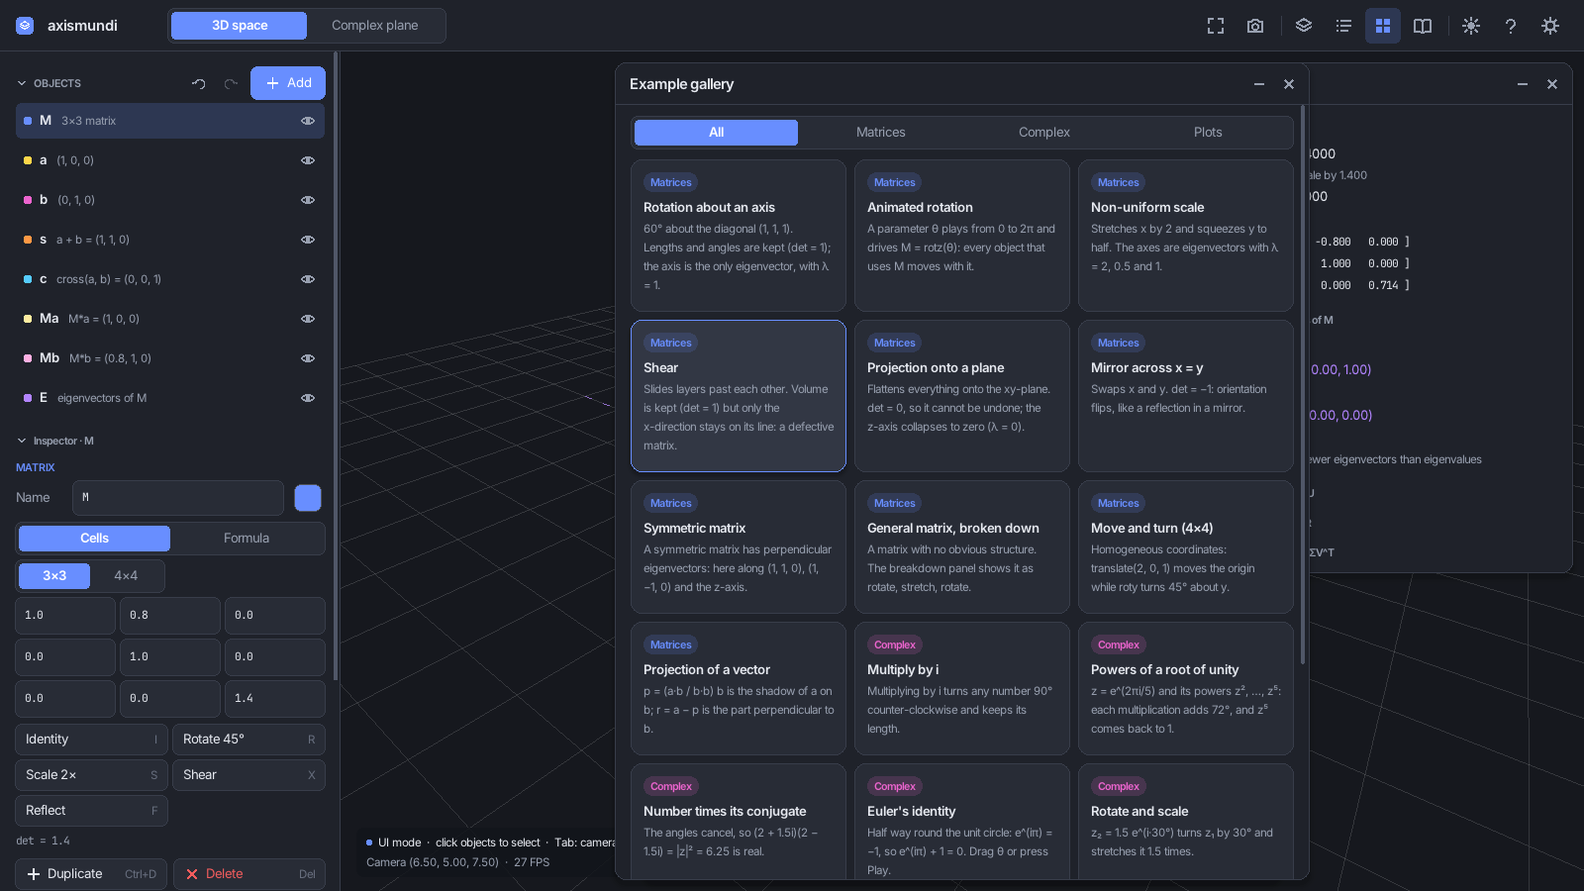
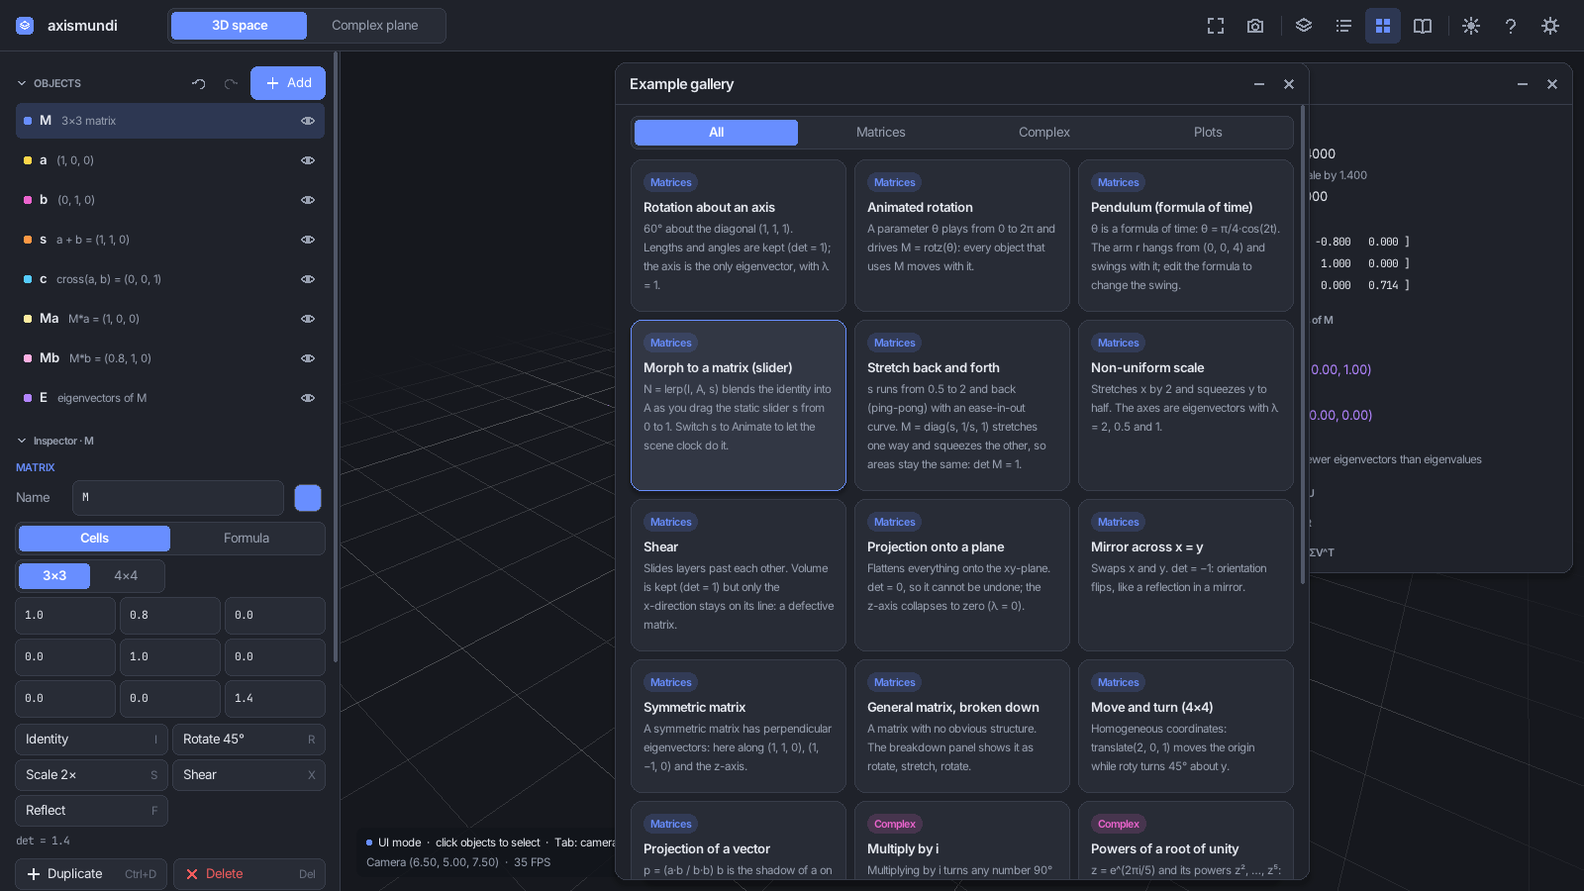
content and docs: Time panel, static morphs, lerp and keys
- Tutorial: the Parameters lesson becomes Parameters and time (static
  slider, Animate with the clock, formula of t, morph with a slider)
- Gallery: Morph to a matrix (slider); clock-driven examples start the
  scene clock
- README, UI_GUIDE, QUICKSTART: Time panel, parameter modes with the
  scene clock, lerp/keys/mod, morph templates; CLAUDE.md: timeline
  model, no Animator, lesson walk advice; TODO updated
- Refreshed screenshots

diff --git a/src/edu/Tutorial.cpp b/src/edu/Tutorial.cpp
@@ -14,6 +14,7 @@ bool near(float a, float b, float tol = 0.02f) { return std::fabs(a - b) <= tol;
 // The default picture in the 3D space, with M selected and the analysis open
 void fresh3D(App& app) {
     app.setMode(AppMode::Space3D);
+    app.restartTime(false);
     app.resetScene();
     app.select("M");
     if (auto* p = app.panel("analysis")) p->setVisible(true);
@@ -188,10 +189,10 @@ std::vector<Lesson> build() {
          "Put 5 in a diagonal cell of a diagonal matrix.", "matrix.grid"},
     }});
 
-    list.push_back({"Parameters", "Sliders that drive formulas", {
+    list.push_back({"Parameters and time", "Sliders, animations and the scene clock", {
         {"A slider in a formula",
          "theta is a parameter: a named number with a slider. Here M is defined by the formula rotz(theta), so "
-         "M, and everything that uses it, turns when theta changes.",
+         "M, and everything that uses it, turns when theta changes. A slider is static: it stays where you put it.",
          [](App& app) {
              fresh3D(app);
              app.addObject(AppMode::Space3D, "parameter", "theta", {}, {{"value", "0.5"}, {"min", "0"}, {"max", "6.2832"}});
@@ -202,26 +203,28 @@ std::vector<Lesson> build() {
              }
              app.select("theta");
          },
-         "Press Play on theta and watch the scene turn.",
+         "Drag theta's slider and watch the scene turn.",
          [](App& app, const TutorialContext&) {
              auto* p = dynamic_cast<scene::ParameterObject*>(app.object("theta"));
              return p && std::fabs(p->number() - 0.5) > 0.2;
          },
-         "The play button is in theta's inspector. Dragging the slider works too.", "parameter.play"},
-        {"Repeat and easing",
-         "Playing switched theta to Animate: it runs from min to max. Ping-pong runs back and forth, and the easing "
-         "curve shapes the motion (Ease in-out starts and stops gently, Bounce bounces at the end).",
-         nullptr, "Choose Ping-pong and a different easing for theta.",
+         "The slider is in theta's inspector, under the mode switch.", "parameter.slider"},
+        {"Animate with the clock",
+         "Set to Animate, a parameter follows the scene clock from min to max. Ping-pong runs back and forth, and the "
+         "easing curve shapes the motion (Ease in-out starts and stops gently, Bounce bounces at the end). The Time "
+         "panel plays, pauses and scrubs the clock for everything at once.",
+         nullptr, "Switch theta to Animate, choose Ping-pong and an easing, then press Play in the Time panel (or P).",
          [](App& app, const TutorialContext&) {
              auto* p = dynamic_cast<scene::ParameterObject*>(app.object("theta"));
-             if (!p) return false;
+             if (!p || p->mode() != scene::ParameterObject::Mode::Animate) return false;
              Playback pb = p->playback();
-             return pb.repeat == Repeat::PingPong && pb.easing != Easing::Linear;
+             return pb.repeat == Repeat::PingPong && pb.easing != Easing::Linear && app.scene().timeline().playing;
          },
-         "Both are in theta's inspector, under the range, when the mode is Animate.", "parameter.easing"},
+         "The mode switch is at the top of theta's inspector; the repeat style and easing appear under the range.",
+         "parameter.mode"},
         {"A formula of time",
-         "A parameter can also be a formula of t, its own clock in seconds. pi/4*sin(2t) swings back and forth "
-         "between ±45°; t/2 grows forever.",
+         "A parameter can also be a formula of t, the scene time in seconds. pi/4*sin(2t) swings back and forth "
+         "between ±45°; t/2 grows as long as the clock runs. Drag the Time panel's scrubber to see any moment.",
          nullptr, "Switch theta to Formula and type a formula that uses t, e.g. pi/4*sin(2t).",
          [](App& app, const TutorialContext&) {
              auto* p = dynamic_cast<scene::ParameterObject*>(app.object("theta"));
@@ -229,7 +232,27 @@ std::vector<Lesson> build() {
              const scene::Field* f = p->field("formula");
              return f && f->program.valid();
          },
-         "The mode switch is at the top of theta's inspector. Press Play if the clock is paused.", "parameter.mode"},
+         "The mode switch is at the top of theta's inspector.", "parameter.mode"},
+        {"Morph with a slider",
+         "lerp(A, B, s) blends from A (s = 0) to B (s = 1). Here N = lerp(eye(3), S, s): the identity morphs into the "
+         "shear S as the static slider s moves. The Add menu builds this for any selected matrix, vector or "
+         "complex number.",
+         [](App& app) {
+             fresh3D(app);
+             app.clearSpace(AppMode::Space3D);
+             app.addObject(AppMode::Space3D, "matrix", "S", {{"value", "[[1, 1.5, 0], [0, 1, 0], [0, 0, 1]]"}},
+                           {{"mode", "formula"}});
+             app.addObject(AppMode::Space3D, "parameter", "s", {}, {{"value", "0"}, {"min", "0"}, {"max", "1"}});
+             app.addObject(AppMode::Space3D, "matrix", "N", {{"value", "lerp(eye(3), S, s)"}}, {{"mode", "formula"}});
+             if (auto* sm = app.object("S")) sm->visible = false;
+             app.select("s");
+         },
+         "Drag s to 1 and watch the basis shear.",
+         [](App& app, const TutorialContext&) {
+             auto* p = dynamic_cast<scene::ParameterObject*>(app.object("s"));
+             return p && p->number() > 0.9;
+         },
+         "The slider is in s's inspector.", "parameter.slider"},
     }});
 
     list.push_back({"Breaking a matrix down", "Rotate, stretch, rotate", {

diff --git a/src/edu/Examples.cpp b/src/edu/Examples.cpp
@@ -91,6 +91,20 @@ std::vector<Example> build() {
                         app.select("theta");
                         app.restartTime(true);
                     }});
+    list.push_back({"Morph to a matrix (slider)", C::Matrices,
+                    "N = lerp(I, A, s) blends the identity into A as you drag the static slider s from 0 to 1. "
+                    "Switch s to Animate to let the scene clock do it.",
+                    [](App& app) {
+                        fresh(app, AppMode::Space3D);
+                        app.addObject(AppMode::Space3D, "matrix", "A",
+                                      {{"value", "[[1.5, 0.8, 0], [-0.4, 1, 0], [0, 0.5, 1.2]]"}}, {{"mode", "formula"}});
+                        app.addObject(AppMode::Space3D, "parameter", "s", {},
+                                      {{"value", "0.35"}, {"min", "0"}, {"max", "1"}});
+                        app.addObject(AppMode::Space3D, "matrix", "N", {{"value", "lerp(eye(3), A, s)"}},
+                                      {{"mode", "formula"}});
+                        if (auto* a = app.object("A")) a->visible = false;
+                        app.select("s");
+                    }});
     list.push_back({"Stretch back and forth", C::Matrices,
                     "s runs from 0.5 to 2 and back (ping-pong) with an ease-in-out curve. M = diag(s, 1/s, 1) "
                     "stretches one way and squeezes the other, so areas stay the same: det M = 1.",

diff --git a/UI_GUIDE.md b/UI_GUIDE.md
@@ -11,7 +11,7 @@
 │ ▾ Inspector  │                                         │  ...         │          │
 │ ▾ VIEW       │    floating panels: Tutorial, Gallery,  └──────────────┘          │
 │              │    Calculation steps, Breakdown, ...                              │
-│  side bar    │  ● UI mode · status        ┌── Animation ──────────────┐          │
+│  side bar    │  ● UI mode · status        ┌── Time ───────────────────┐          │
 │  (scrolls)   │                            └───────────────────────────┘          │
 └──────────────┴───────────────────────────────────────────────────────────────────┘
 ```
@@ -70,7 +70,7 @@ Each space has its own list of objects. The side bar shows:
 | Matrix | 3D | Cells (3×3 / 4×4, presets) or Formula; determinant |
 | Eigenvectors | 3D | Matrix formula (e.g. `M`); dashed lines with dots at λv |
 | Function / Curve / Surface / Implicit | 3D | Expressions in x, y, t; ranges; Detail per unit; Heat map; Next example |
-| Parameter | both | Slider / Animate / Formula; range; repeat style, easing, duration; play, restart |
+| Parameter | both | Slider / Animate / Formula; range; repeat style, easing, duration, start delay |
 | Complex number | complex | Value; circle, cos/sin projections, helix options; length and angle |
 | Product | complex | Two factors; rotation and scaling construction; length and angle breakdown |
 
@@ -82,7 +82,8 @@ Every field is a formula. It can use other objects in the same space by name. Av
 - `sin cos tan asin acos atan sinh cosh tanh exp log ln sqrt abs floor ceil atan2 min max`;
 - vectors: `dot cross norm normalize`;
 - matrices: `det tr inv transpose rotx roty rotz rot(axis, angle) scale translate eye`;
-- complex numbers: `conj re im arg polar`.
+- complex numbers: `conj re im arg polar`;
+- blending: `lerp(a, b, s)`, `keys(s, A, B, …)`; and `mod(a, b)`.
 
 `M*v` applies a matrix to a vector (a 4×4 matrix treats v as a point); `M*N` composes; `M^-1` inverts.
 Plots use `x`, `y` and `t` as their variables. Names must start with a letter and cannot be built-in names.
@@ -92,17 +93,36 @@ red summary in the list for errors such as unknown names, wrong types or circula
 ### Parameters
 A parameter is a named number that can be used in any formula. The switch at the top of its inspector picks
 how it is driven:
-- **Slider**: set it by hand within its range.
-- **Animate**: Play runs it from min to max.
+- **Slider**: set it by hand within its range. It is static: time does not move it. Use it to morph things by
+  hand, e.g. `lerp(eye(3), M, s)` blends the identity into M as `s` goes from 0 to 1.
+- **Animate**: follows the scene clock from min to max.
   - **Once** stops at the end, **Loop** starts again, **Ping-pong** runs back and forth.
   - The **easing** button opens a grid of curves: Linear, Ease in, Ease out, Ease in-out, Sine, Back
     (overshoots), Elastic, Bounce and Steps. Hover one to read what it does.
-  - The slider next to it sets the duration of one run.
-- **Formula**: the value is a formula of `t`, the parameter's own clock in seconds, and may use other objects.
-  Examples: `2pi*t/5` (one turn every 5 s), `pi/4*sin(2t)`, `1 + k*cos(t)`. Play / pause runs the clock,
-  restart sets t back to 0, and "Wrap t after" can restart it periodically.
+  - The slider next to it sets the duration of one run; **Start at** delays it, so parameters can move one
+    after another.
+- **Formula**: the value is a formula of `t`, the scene time in seconds, and may use other objects.
+  Examples: `2pi*t/5` (one turn every 5 s), `pi/4*sin(2t)`, `1 + k*cos(t)`, `mod(t, 3)` (restarts every 3 s).
 
-Pressing Play on a slider switches it to Animate. Several parameters can play at once.
+Animate and Formula parameters show the current `t` and a link to the Time panel.
+
+### Time panel
+One clock for the whole scene, shared by both spaces:
+- **Play / pause** (P), **Restart** (back to t = 0), and a **scrubber**: dragging it shows any moment, because
+  time-driven parameters are computed from the time rather than stepped frame by frame.
+- **Speed** (0.1× to 4×) and **Loop** (start again at the end, or stop there).
+- **Length**: Auto uses the longest Once or Ping-pong animation (start delay included), or 10 s; click Auto
+  to set a length by hand.
+- The list of time-driven parameters in the current space, with their mode and current value; click one to
+  select it.
+
+The clock is saved with the scene. Undo never moves it.
+
+### Morphing
+`lerp(A, B, s)` blends any two values of the same kind (numbers, complex numbers, vectors, matrices); a plain
+`0` stands for zero, so `lerp(0, v, s)` grows v from nothing. `keys(s, A, B, C, …)` runs through several values
+as s goes from 0 to 1. The Add menu builds these for the selection: **Morph from identity** (a matrix),
+**Grow from zero** (a vector or complex number) and **Blend** (two objects), each with a new slider `s`.
 
 ### Plot detail
 **Detail** is set per unit of the range: samples per unit of x (functions) or t (curves), and grid cells per
@@ -121,8 +141,8 @@ surface cells, 800 × 800 implicit cells), and the line says so when the cap app
 
 z points up and the floor grid is the xy-plane, the usual math convention, so vectors and surfaces
 `z = f(x, y)` agree. The axes are x (red), y (green), z (blue). Matrices are drawn as their moved basis on top
-of the faint original basis. The Animation panel morphs the selected matrix (or the first one) from the
-identity, with a repeat style (Once / Loop / Ping-pong) and an easing curve.
+of the faint original basis. To watch a matrix appear, morph it from the identity with a slider (Add →
+Morph from identity), or set that slider to Animate.
 
 The floor grid has a line every unit and a stronger one every 5 units, and fades out at its edge. **Grid size**
 in the View section sets how far it reaches (±5 to ±100 units).

diff --git a/CLAUDE.md b/CLAUDE.md
@@ -66,7 +66,7 @@ src/
                       names, rename with reference rewrite, dependency-ordered evaluation, cycles),
                       Types (object classes + registry), Scene (2 spaces, selection, undo, files v2 + v1 import)
   view/SceneView      draws a space's objects (per-type), labels, colors, selection halo, plot cache
-  animation/          NO raylib: Playback (0..1 run: Once/Loop/PingPong + 9 easings, save/load), Animator
+  animation/          NO raylib: Playback (Once/Loop/PingPong + 9 easings; phaseAt(seconds) is pure; save/load)
   edu/                Tutorial lessons (setup/check/anchor), Examples (gallery entries), built on App API
   rendering/          Grid (lines every unit, major every 5, fading edge; size = ViewSettings::gridSize ±5..100),
                       VectorRenderer::drawArrow, PlotRenderer (GPU meshes from expressions + resolver),
@@ -75,7 +75,7 @@ src/
                       Layout, Icons, FloatingPanel + PanelManager
   ui/                 ScenePanel (objects list + inspector), AddMenu (types + templates from the
                       selection), Widgets, TopBar, SideBar, ViewPanel, InfoPanel (analysis of the
-                      selection), AnimationPanel, StepsPanel, BreakdownPanel, GalleryPanel, TutorialPanel,
+                      selection), TimePanel (scene clock), StepsPanel, BreakdownPanel, GalleryPanel, TutorialPanel,
                       SettingsPopover, ColorPopover, HelpOverlay, SceneIO, Preferences, RayguiImpl.cpp
   ui/generated/       fonts.inc (embedded fonts, subset; codepoint list)
   include/<area>/     headers mirror the folders above
@@ -92,11 +92,19 @@ docs/screenshots/     images for the docs, produced by --tour
   topological, cycles and missing names become object errors, `changedAt()` tells views what to redraw.
 - `Scene::commit()` after each user change pushes an undo snapshot (the whole scene serialized).
 - 3D space uses math coordinates with z up; draw with `mathToWorld()` (rendering/WorldMapping.hpp).
+- **Time**: `Scene::Timeline` (time, playing, speed, loop, length; 0 = auto from the longest Once/PingPong
+  animation) is the only clock. `Scene::advance(dt)` moves it; `Scene::evaluate()` calls
+  `SceneObject::setTime()` on every object first. It is saved in files (`time.*`) but left out of undo
+  snapshots (`save(data, false)`), so undo never rewinds time. There is no Animator any more.
 - `SceneObject::provideSlots(expr::Slots&)` lets an object feed x/y/t to its own (non-plot) fields;
-  ParameterObject uses it for its clock t (Formula mode). Time-dependent objects can reuse it.
-- Parameters: `mode` prop slider|animate|formula; Animate state lives in props `anim.*` (via
-  `Playback::save/load` + `anim.phase`/`anim.direction`). Old files with `speed`/`loop` are converted in
-  `Scene::restore`.
+  ParameterObject uses it for t = scene time (Formula mode). Time-dependent objects can reuse it.
+- Parameters: `mode` prop slider|animate|formula. Slider is static. Animate is a pure function of the time
+  (`animatedValue(t)` from props `anim.repeat/easing/duration/start`), so scrubbing works. Old files: per-
+  parameter clocks (`playing`, `clock`, `period`, `speed`, `loop`, `anim.phase`) are dropped in
+  `Scene::restore` and a playing parameter starts the timeline; old Animation-panel keyframes become
+  `K = keys(s, ...)` (`App::convertOldKeyframes`).
+- Morphs are formulas: `lerp(a, b, s)` (any value kind, `0` = zero of the other kind), `keys(s, ...)`.
+  Add menu templates with `AddChoice::helperParameter` create a slider `s` first and substitute `$s`.
 - Plots: `density` prop = samples (cells) per unit; `PlotObject::samples()` gives capped counts, which
   SceneView passes to `PlotRenderer` as `samplesX/Y`. Old `resolution` props are converted after loading
   (`Scene::convertOldPlots`). PlotRenderer uploads meshes once per change (indexed surface bands under
@@ -142,7 +150,7 @@ Saving/loading is automatic (fields and props are serialized generically).
 - **Theme colors** are read at draw time; the plot cache in SceneView rebuilds when the theme or an
   object's color changes.
 - Scenes (`scene.txt`, F5/F9) hold both spaces' objects (format v2; v1 files are converted), camera,
-  view and keyframes; preferences (`~/.config/axismundi/settings.txt`) hold theme, zoom, toggles, panel
+  view and the timeline; preferences (`~/.config/axismundi/settings.txt`) hold theme, zoom, toggles, panel
   layout, finished lessons, window size. Both use the `key = value` format from `SceneIO`.
 
 ## Git workflow
@@ -159,8 +167,15 @@ Saving/loading is automatic (fields and props are serialized generically).
 
 Measured under xvfb with Mesa llvmpipe (software rendering, so real GPUs are far faster): a 400×400
 surface (161k vertices, indexed) draws in ~57 ms/frame (unindexed it was ~140 ms); rebuilding it takes
-~0.2 s, which happens every frame if a playing parameter feeds the surface. Wireframe lines are still
+~0.2 s, which happens every frame if a time-driven parameter feeds the surface while the clock plays. Wireframe lines are still
 drawn per frame (capped at ~60 lines × ~150 segments per direction).
+
+## Tutorials
+
+Lesson steps have `setup`/`check`; App calls `TutorialPanel::update` every frame while the tutorial panel is
+visible (this call was lost once, silently disabling every lesson). After changing lessons, walk them: a
+temporary tour loop that enters each step, applies a scripted solution through the App API and logs
+whether `check` passes (and does not pass before the solution) caught that regression.
 
 ## Not yet verified
 

diff --git a/README.md b/README.md
@@ -17,10 +17,11 @@ and worked calculations.
   reported on the objects involved.
 - **Parameters** are named numbers (θ, k, …) usable in any formula, so they can turn a rotation matrix,
   reshape a surface or move e^(iθ) around the circle. Each one is driven in one of three ways:
-  - a **slider**;
-  - an **animation** from min to max: once, loop or ping-pong, with an easing curve (ease in/out, sine,
-    back, elastic, bounce, steps) and a duration;
+  - a **slider**, static, for morphing by hand (e.g. `lerp(eye(3), M, s)`);
+  - an **animation** that follows the scene clock from min to max: once, loop or ping-pong, with an easing
+    curve (ease in/out, sine, back, elastic, bounce, steps), a duration and a start delay;
   - a **formula of time** `t`, such as `pi/4*cos(2t)`, which may use other objects.
+- One **Time panel** plays, pauses and scrubs the scene clock for everything at once.
 - The **Add menu** offers templates for the current selection: sum, difference, cross product and projection
   of two vectors, M·v, the eigenvectors, inverse or transpose of a matrix, A·B, z₁·z₂, conjugates…
 - Undo/redo covers every change (Ctrl+Z / Ctrl+Y).
@@ -45,8 +46,6 @@ and worked calculations.
 - **Transformation breakdown** (B): the selected matrix as *rotate → stretch → rotate (→ move)*, played step
   by step.
 - **Calculation steps** (K): worked calculations with the selected objects' numbers.
-- **Animation**: morph from the identity to the selected matrix, rotation and scaling presets, keyframes,
-  with the same repeat styles and easing curves as parameters.
 - **Tutorial** (F1): 11 lessons with tasks that are checked as you work, including adding objects, formulas
   and parameters.
 - **Example gallery** (E): about 20 ready-made scenes.
@@ -77,7 +76,8 @@ Fields accept:
   - `sin cos tan exp log sqrt abs …` (complex-aware);
   - vectors: `dot cross norm normalize`;
   - matrices: `det tr inv transpose rotx roty rotz rot(axis, angle) scale translate eye`;
-  - complex numbers: `conj re im arg polar`.
+  - complex numbers: `conj re im arg polar`;
+  - blending: `lerp(a, b, s)` (any value kind), `keys(s, A, B, …)`, and `mod(a, b)`.
 
 `M*v` applies a matrix to a vector (4×4 matrices treat v as a point), and `M*N` composes matrices.
 
@@ -118,7 +118,7 @@ make build
 make run                       # build and run
 ./bin/linalg_viz --theme light # start with the light theme
 ./bin/linalg_viz --size 1280x720
-make test                      # math, animation and explanation unit tests (no raylib needed)
+make test                      # math, expressions, scene, playback and explanation tests (no raylib needed)
 ```
 
 ### Controls
@@ -139,7 +139,7 @@ window to exit.
 | Ctrl+Z / Ctrl+Y | Undo / redo (UI mode) |
 | I / R / S / X / F | Presets for the selected matrix (S in UI mode) |
 | F1 / E / K / B / M | Tutorial / gallery / calculation steps / breakdown / analysis |
-| P | Play / pause the matrix animation |
+| P | Play / pause the scene clock (Time panel) |
 | H | Help with all shortcuts |
 | T | Dark / light theme |
 | Ctrl+= / Ctrl+− / Ctrl+0 | Bigger / smaller / default UI size |
@@ -167,7 +167,7 @@ Shortcuts are ignored while a text field is being edited.
     │   └── expr/             #   breakdown, worked explanations; typed expression engine
     ├── scene/                # object model: objects, spaces, dependencies, undo, files
     ├── view/                 # SceneView: draws the objects of a space
-    ├── animation/            # Playback (repeat styles, easing) and Animator
+    ├── animation/            # Playback (repeat styles, easing)
     ├── edu/                  # tutorial lessons and gallery examples
     ├── rendering/            # grid, arrows, plots, camera, labels
     ├── ui/                   # side bar (objects + inspector), panels, popovers, widgets

diff --git a/QUICKSTART.md b/QUICKSTART.md
@@ -32,9 +32,13 @@ make run
 
 Add a **Parameter**, give it a name like `theta`, and use it in any formula, for example a matrix
 `rotz(theta)` or a surface `sin(theta*x)`. A parameter can be:
-- a **Slider**;
-- an **Animation** (Play): once, loop or ping-pong, with an easing curve;
+- a **Slider** (static: it stays where you put it);
+- **Animate**: follows the scene clock, once, loop or ping-pong, with an easing curve;
 - a **Formula** of time `t`, such as `pi/4*cos(2t)`.
+
+The **Time panel** (P to play or pause) runs the clock for everything at once and can be scrubbed. To morph
+something by hand, select it and use Add → Morph from identity / Grow from zero: you get a slider `s` and a
+`lerp` formula.
 
 Plot **Detail** is per unit of the range, so wide plots stay smooth. **Grid size** (View section) makes the
 floor grid larger.
@@ -51,7 +55,7 @@ floor grid larger.
 - **M** Analysis: results for the selection (lengths, angles, det, inverse, eigenvalues, LU/QR/SVD, polar form).
 - **B** Breakdown: the selected matrix as rotate → stretch → rotate, step by step.
 - **K** Calculation steps: worked calculations with your numbers.
-- **P** animates from the identity to the selected matrix.
+- **P** plays or pauses the scene clock (Time panel).
 
 ## Make it yours
 

diff --git a/TODO.md b/TODO.md
@@ -42,7 +42,8 @@
 - [x] Implement timeline scrubber
 - [x] Create animation presets (rotation, scaling, morph)
 - [x] Add animation speed control
-- [x] Support keyframe-based animations
+- [x] Support keyframe-based animations (now `keys(s, ...)` formulas)
+- [x] One scene clock (Time panel) for all time-driven parameters; morphs as `lerp` formulas
 
 ### Matrix Operations
 - [x] Display determinant value
